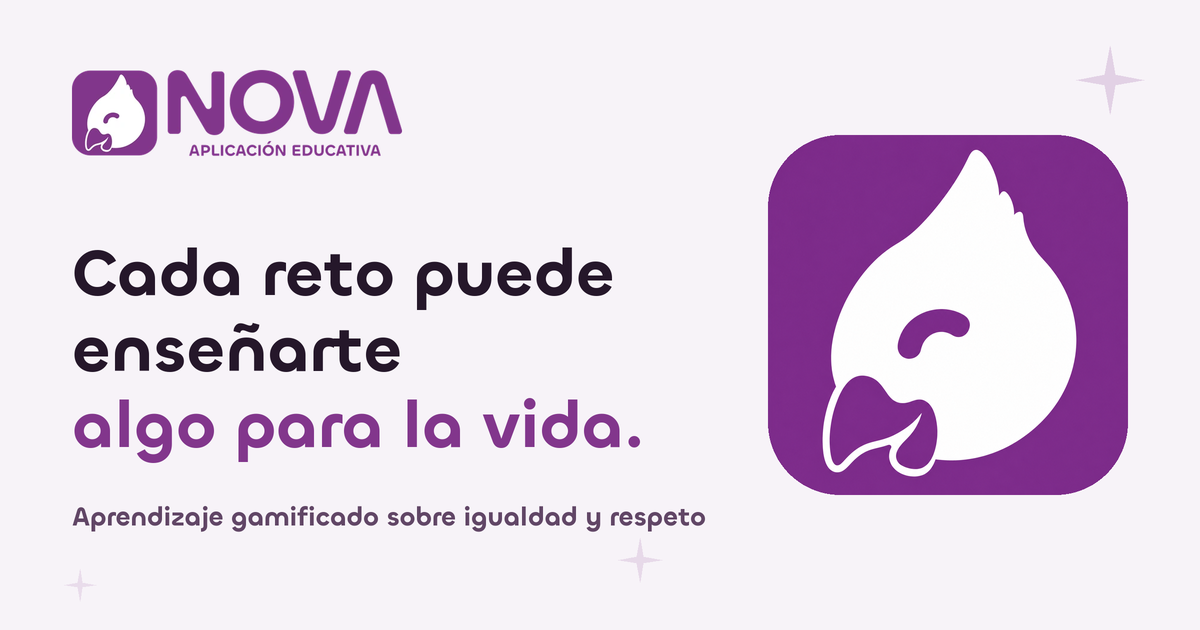
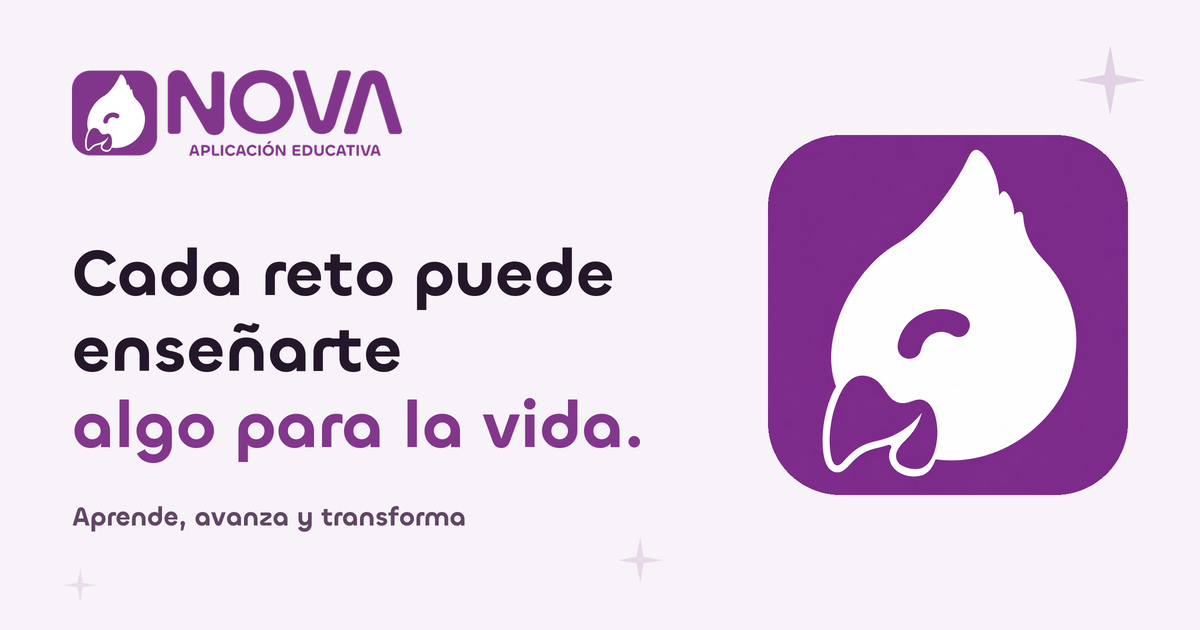
fix(landing): la línea del hero y la imagen para compartir vuelven al lema actual
Mientras el equipo define el título y la descripción, la línea pequeña del hero vuelve a "Aprende · juega · descubre" (fuera del h1, como antes) y la imagen para compartir usa "Aprende, avanza y transforma" en vez de "aprendizaje gamificado", igual que el título.

Changed region(s): [[0.1233, 0.7841, 0.5858, 0.8444]]

diff --git a/landing/src/App.jsx b/landing/src/App.jsx
@@ -287,16 +287,14 @@ function App() {
 
           <div className="mx-auto grid w-full max-w-[88rem] items-center gap-10 px-4 py-12 sm:px-6 lg:grid-cols-[1fr_1fr] lg:gap-14 lg:px-8 lg:py-16">
             <div>
-              <h1 className="font-display max-w-3xl text-6xl leading-[0.96] text-nova-ink sm:text-7xl lg:text-[5.5rem]">
-                <span className="eyebrow mb-5 block text-nova-purple">
-                  NOVA · aprendizaje gamificado sobre igualdad y respeto
-                </span>
+              <p className="eyebrow mb-5 text-nova-purple">
+                Aprende · juega · descubre
+              </p>
 
-                <span className="block">
-                  Cada reto puede enseñarte{" "}
-                  <span className="text-nova-purple">
-                    algo para la vida.
-                  </span>
+              <h1 className="font-display max-w-3xl text-6xl leading-[0.96] text-nova-ink sm:text-7xl lg:text-[5.5rem]">
+                Cada reto puede enseñarte{" "}
+                <span className="text-nova-purple">
+                  algo para la vida.
                 </span>
               </h1>
 

diff --git a/landing/index.html b/landing/index.html
@@ -32,7 +32,7 @@
     <meta property="og:image:height" content="630" />
     <meta
       property="og:image:alt"
-      content="NOVA, aprendizaje gamificado sobre igualdad y respeto: cada reto puede enseñarte algo para la vida."
+      content="NOVA: cada reto puede enseñarte algo para la vida. Aprende, avanza y transforma."
     />
     <meta name="twitter:card" content="summary_large_image" />
     <meta
@@ -46,7 +46,7 @@
     <meta name="twitter:image" content="https://novamindflow.com/og-image.png" />
     <meta
       name="twitter:image:alt"
-      content="NOVA, aprendizaje gamificado sobre igualdad y respeto: cada reto puede enseñarte algo para la vida."
+      content="NOVA: cada reto puede enseñarte algo para la vida. Aprende, avanza y transforma."
     />
 
     <!-- Datos estructurados: el nombre del sitio que Google muestra en los resultados -->
